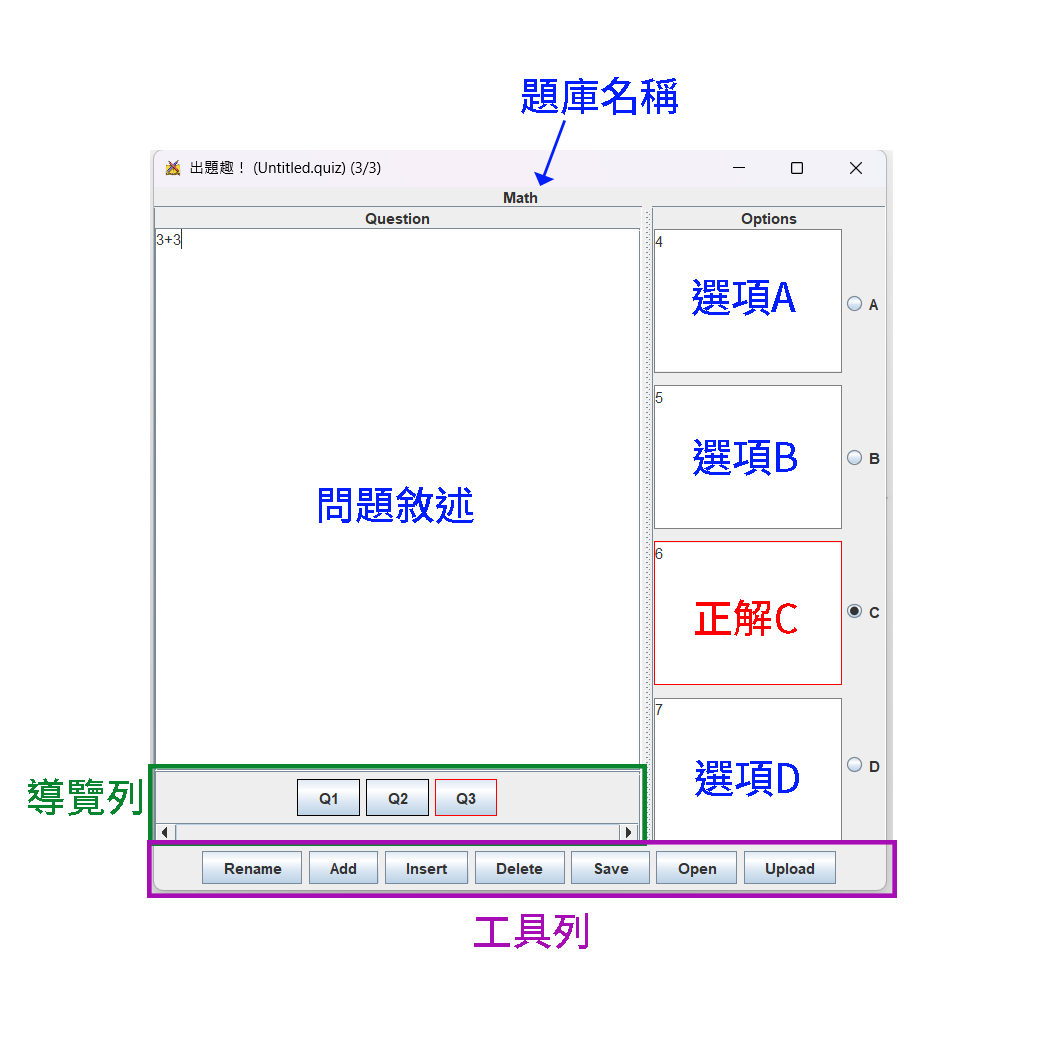
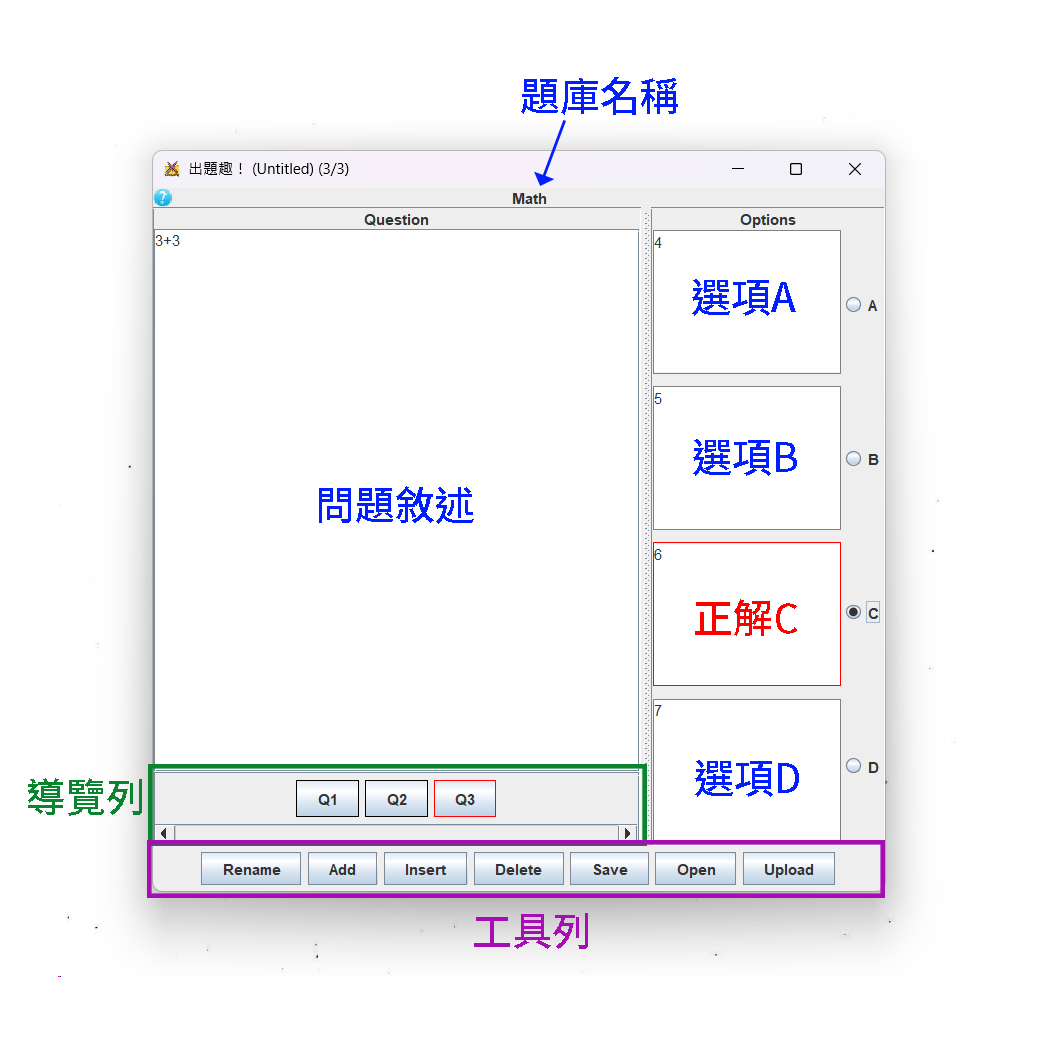
add help doc to MakeQuizFrame

diff --git a/docs/make_quiz.html b/docs/make_quiz.html
@@ -1,0 +1,173 @@
+<!DOCTYPE html>
+        <html>
+        <head>
+            <meta charset="UTF-8">
+            <title>&#x51fa;&#x984c;&#x8da3;&#xff01;</title>
+            <style>
+/* From extension vscode.github */
+/*---------------------------------------------------------------------------------------------
+ *  Copyright (c) Microsoft Corporation. All rights reserved.
+ *  Licensed under the MIT License. See License.txt in the project root for license information.
+ *--------------------------------------------------------------------------------------------*/
+
+.vscode-dark img[src$=\#gh-light-mode-only],
+.vscode-light img[src$=\#gh-dark-mode-only],
+.vscode-high-contrast:not(.vscode-high-contrast-light) img[src$=\#gh-light-mode-only],
+.vscode-high-contrast-light img[src$=\#gh-dark-mode-only] {
+	display: none;
+}
+
+</style>
+            
+        
+        <style>
+.task-list-item {
+    list-style-type: none;
+}
+
+.task-list-item-checkbox {
+    margin-left: -20px;
+    vertical-align: middle;
+    pointer-events: none;
+}
+</style>
+<style>
+:root {
+  max-width: 1000px;
+  --color-note: #0969da;
+  --color-tip: #1a7f37;
+  --color-warning: #9a6700;
+  --color-severe: #bc4c00;
+  --color-caution: #d1242f;
+  --color-important: #8250df;
+}
+
+</style>
+<style>
+@media (prefers-color-scheme: dark) {
+  :root {
+    --color-note: #2f81f7;
+    --color-tip: #3fb950;
+    --color-warning: #d29922;
+    --color-severe: #db6d28;
+    --color-caution: #f85149;
+    --color-important: #a371f7;
+  }
+}
+
+</style>
+<style>
+.markdown-alert {
+  padding: 0.5rem 1rem;
+  margin-bottom: 16px;
+  color: inherit;
+  border-left: .25em solid #888;
+}
+
+.markdown-alert>:first-child {
+  margin-top: 0
+}
+
+.markdown-alert>:last-child {
+  margin-bottom: 0
+}
+
+.markdown-alert .markdown-alert-title {
+  display: flex;
+  font-weight: 500;
+  align-items: center;
+  line-height: 1
+}
+
+.markdown-alert .markdown-alert-title .octicon {
+  margin-right: 0.5rem;
+  display: inline-block;
+  overflow: visible !important;
+  vertical-align: text-bottom;
+  fill: currentColor;
+}
+
+.markdown-alert.markdown-alert-note {
+  border-left-color: var(--color-note);
+}
+
+.markdown-alert.markdown-alert-note .markdown-alert-title {
+  color: var(--color-note);
+}
+
+.markdown-alert.markdown-alert-important {
+  border-left-color: var(--color-important);
+}
+
+.markdown-alert.markdown-alert-important .markdown-alert-title {
+  color: var(--color-important);
+}
+
+.markdown-alert.markdown-alert-warning {
+  border-left-color: var(--color-warning);
+}
+
+.markdown-alert.markdown-alert-warning .markdown-alert-title {
+  color: var(--color-warning);
+}
+
+.markdown-alert.markdown-alert-tip {
+  border-left-color: var(--color-tip);
+}
+
+.markdown-alert.markdown-alert-tip .markdown-alert-title {
+  color: var(--color-tip);
+}
+
+.markdown-alert.markdown-alert-caution {
+  border-left-color: var(--color-caution);
+}
+
+.markdown-alert.markdown-alert-caution .markdown-alert-title {
+  color: var(--color-caution);
+}
+
+</style>
+        
+        </head>
+        <body class="vscode-body vscode-dark">
+            <h1 id="出題趣">出題趣！</h1>
+<p>《出題趣！》是《刷題趣！》專用的出題工具，讓你能自己設計題目。透過《出題趣！》，你可以建立一個屬於你自己的題庫。每個題庫包含數道題目；每道題目包含了問題敘述、四個選項和一個正解。</p>
+<p>寫好題庫後，你可以下載到你的電腦，之後便能在單人模式中選擇該題庫練習，和分享給你的同學；亦可上傳題庫到伺服器，在多人模式遊玩這個題庫。</p>
+<p>《出題趣！》的介面如下，這個頁面將指導你如何使用《出題趣！》。</p>
+<p><img src="navigation.png" alt="Navigator"></p>
+<h2 id="題目">題目</h2>
+<p>左側的文字框可以輸入問題敘述。右側的4個文字框分別是選項A、B、C、D，其中以紅色框起來的是正解選項。透過點選選項右側的圓形按鈕，你可以選擇正解是哪個選項。</p>
+<h2 id="導覽列">導覽列</h2>
+<p>透過導覽列你可以導覽到其他題目並進行編輯，只要點擊你想要導覽的題號即可。例如Q2按鈕會導覽至第二題，讓你可以編輯第二題的題目。正在編輯的題目題號會以紅色框框顯示。</p>
+<h2 id="工具列">工具列</h2>
+<p>在最下方有一排按鈕，分別是</p>
+<ul>
+<li>Rename</li>
+<li>Add</li>
+<li>Insert</li>
+<li>Delete</li>
+<li>Save</li>
+<li>Open</li>
+<li>Upload</li>
+</ul>
+<h3 id="rename">Rename</h3>
+<p>命名題庫</p>
+<h3 id="add">Add</h3>
+<p>新增一道新題目放在題庫的最後面，並導覽至該題目進行編輯</p>
+<h3 id="insert">Insert</h3>
+<p>在題庫中間插入一道新的第X題題目，並導覽至該題目進行編輯。按下Insert鈕會跳出一個視窗讓你選擇要插入至第幾題。以下圖為例會插入一個新題目作為第二題</p>
+<p><img src="insert.png" alt="insert"></p>
+<h3 id="delete">Delete</h3>
+<p>刪除正在編輯的題目</p>
+<h3 id="save">Save</h3>
+<p>儲存題庫</p>
+<h3 id="open">Open</h3>
+<p>開啟其他題庫</p>
+<h3 id="upload">Upload</h3>
+<p>上傳題庫到指定的伺服器。<strong>所有的題目必須完整填寫才能上傳</strong>，包含題目敘述和四個選項不能留空白</p>
+
+            
+            
+        </body>
+        </html>

diff --git a/gui/MakeQuizFrame.java b/gui/MakeQuizFrame.java
@@ -31,6 +31,7 @@ public class MakeQuizFrame extends JFrame {
     private IncompleteDialog incompleteFrame = new IncompleteDialog(this);
     private JLabel status = new JLabel("", SwingConstants.CENTER);
     private static LoginDialog.Info loginInfo;
+    private Desktop desktop = Desktop.getDesktop();
 
     public static void main(String[] args) {
         new MakeQuizFrame();
@@ -139,8 +140,27 @@ public class MakeQuizFrame extends JFrame {
 
         JSplitPane mainPane = new JSplitPane(JSplitPane.HORIZONTAL_SPLIT, questionPanel, answerPanel);
         mainPane.setResizeWeight(0.7);
+
+        JLabel helpButton = new JLabel(new ImageIcon(Resource.questionMark.getImage().getScaledInstance(16, 16, Image.SCALE_SMOOTH)));
         
-        this.add(this.status, BorderLayout.NORTH);
+        helpButton.setCursor(Cursor.getPredefinedCursor(Cursor.HAND_CURSOR));
+        helpButton.addMouseListener(new MouseAdapter() {
+            @Override
+            public void mouseClicked(MouseEvent e) {
+                try {
+                    desktop.browse(Path.of("docs/make_quiz.html").toUri());
+                } catch (Exception ex) {
+                    System.out.println("Failed to browse webpage");
+                    System.out.println(ex);
+                }
+            }
+        });
+        
+        JPanel statusPanel = new JPanel(new BorderLayout());
+        statusPanel.add(helpButton, BorderLayout.WEST);
+        statusPanel.add(this.status, BorderLayout.CENTER);
+        
+        this.add(statusPanel, BorderLayout.NORTH);
         this.add(mainPane, BorderLayout.CENTER);
         this.add(actionButtonPanel, BorderLayout.SOUTH);
 

diff --git a/gui/Resource.java b/gui/Resource.java
@@ -8,6 +8,7 @@ public class Resource {
     public static final ImageIcon github;
     public static final ImageIcon leftArrow;
     public static final ImageIcon rightArrow;
+    public static final ImageIcon questionMark;
 
     static {
         ImageIcon tmp = new ImageIcon(Resource.class.getResource("/assets/podium.png"));
@@ -16,5 +17,6 @@ public class Resource {
         github = new ImageIcon(Resource.class.getResource("/assets/github.png"));
         leftArrow = new ImageIcon(Resource.class.getResource("/assets/left.png"));
         rightArrow = new ImageIcon(Resource.class.getResource("/assets/right.png"));
+        questionMark = new ImageIcon(Resource.class.getResource("/assets/question-mark.png"));
     }
 }
